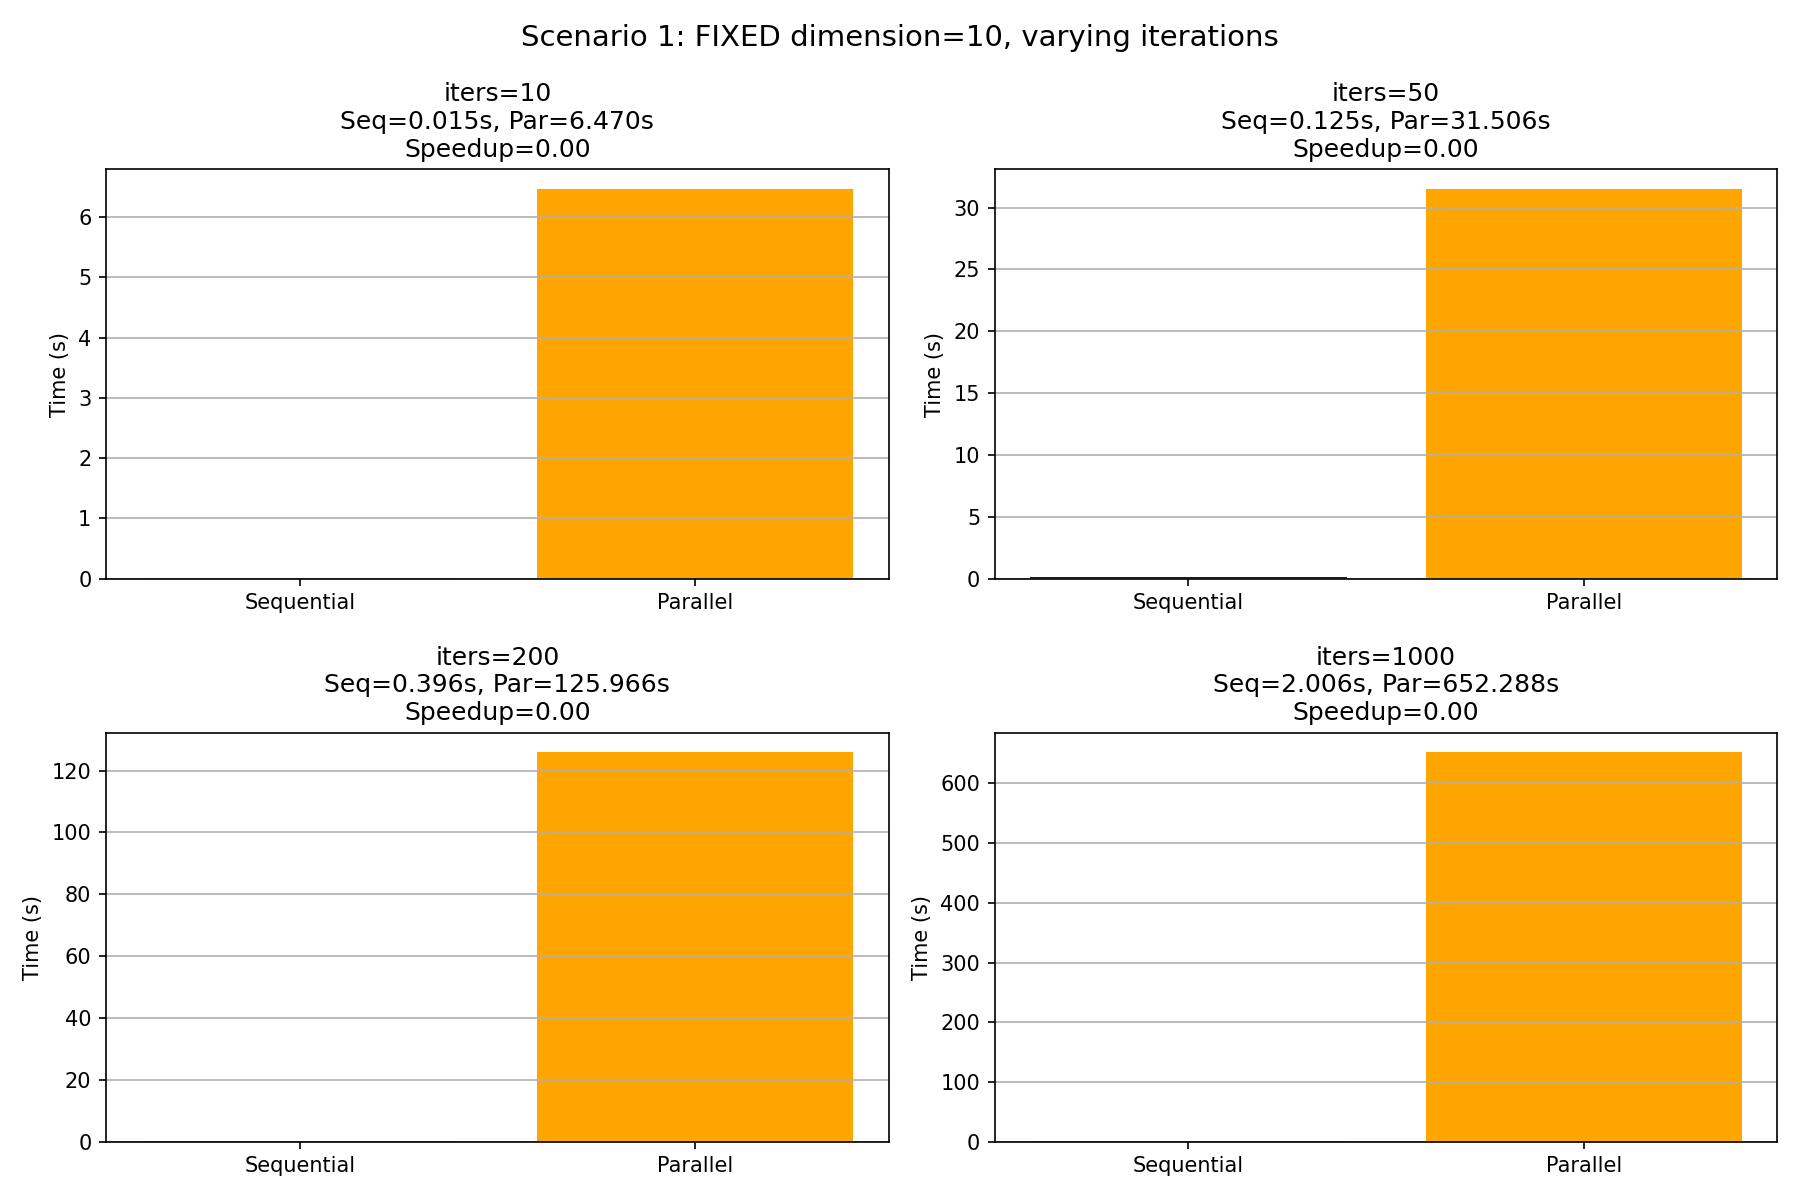
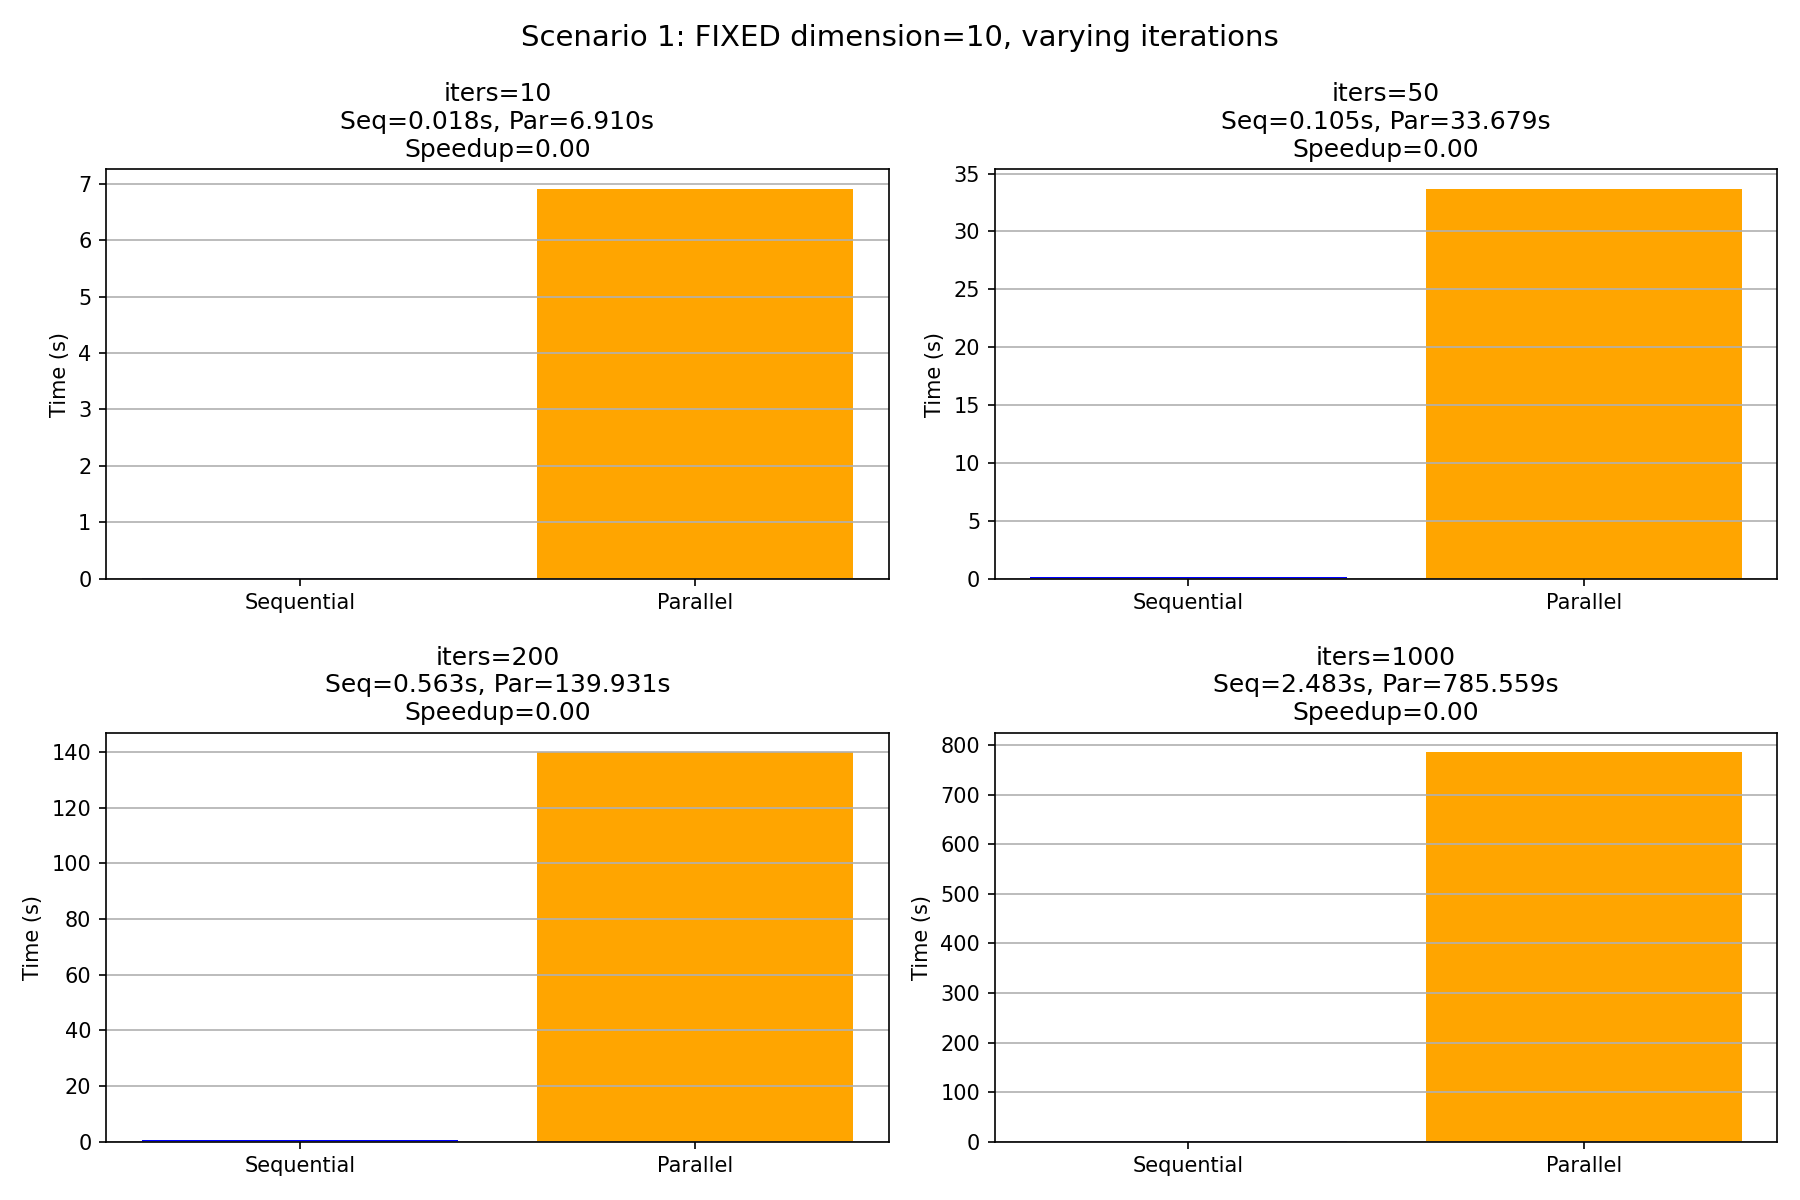
feat(plotting): Update comparison plots and modify filter scenarios

diff --git a/pythonImplementation/compare_filters.py b/pythonImplementation/compare_filters.py
@@ -7,36 +7,32 @@ from filter_parallel import filter_parallel
 
 def scenario1_fixed_dimension():
     fixed_dim = 10
-    iteration_values = [10, 50, 200, 1000]  # 4 iteration values
+    iteration_values = [10, 50, 200, 1000]  # 4 Iterationswerte
 
-    # Create a figure with 2x2 subplots => 4 subplots total
     fig, axes = plt.subplots(2, 2, figsize=(12, 8))
     fig.suptitle(f"Scenario 1: FIXED dimension={fixed_dim}, varying iterations", fontsize=14)
 
-    # Iterate over iteration_values and place each result into a subplot
     subplot_positions = [(0,0), (0,1), (1,0), (1,1)]
 
     for i, iters in enumerate(iteration_values):
         row, col = subplot_positions[i]
         ax = axes[row][col]
 
-        # Measure SEQUENTIAL
+        # Messung SEQUENTIAL
         start_seq = time.time()
         _, _, alpha_seq = filter_sequential(fixed_dim, iters)
         seq_time = time.time() - start_seq
 
-        # Measure PARALLEL
+        # Messung PARALLEL
         start_par = time.time()
         _, _, alpha_par = filter_parallel(fixed_dim, iters)
         par_time = time.time() - start_par
 
-        # We'll do a simple bar plot with 2 bars
         labels = ["Sequential", "Parallel"]
         times = [seq_time, par_time]
 
         ax.bar(labels, times, color=["blue", "orange"])
 
-        # Title referencing iteration
         speedup = seq_time / par_time if par_time != 0 else float('inf')
         ax.set_title(f"iters={iters}\nSeq={seq_time:.3f}s, Par={par_time:.3f}s\nSpeedup={speedup:.2f}")
 
@@ -48,8 +44,8 @@ def scenario1_fixed_dimension():
 
 
 def scenario2_fixed_iterations():
-    fixed_iters = 50
-    dimension_values = [10, 50, 100, 500]  # 4 dimension values
+    fixed_iters = 2
+    dimension_values = [10, 15, 20, 1000]  # 4 dimension values
 
     fig, axes = plt.subplots(2, 2, figsize=(12, 8))
     fig.suptitle(f"Scenario 2: FIXED iterations={fixed_iters}, varying dimensions", fontsize=14)
@@ -82,9 +78,9 @@ def scenario2_fixed_iterations():
         ax.grid(True, axis='y')
 
     plt.tight_layout()
-    plt.savefig("./comparePlot/scenario2.png", dpi=150)
+    plt.savefig("./comparePlot/scenario2version2.png", dpi=150)
 
 
 if __name__ == "__main__":
-    scenario1_fixed_dimension()
+    # scenario1_fixed_dimension()
     scenario2_fixed_iterations()
